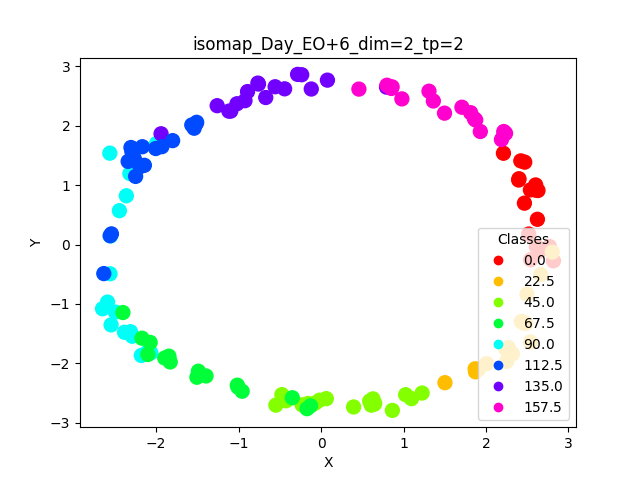
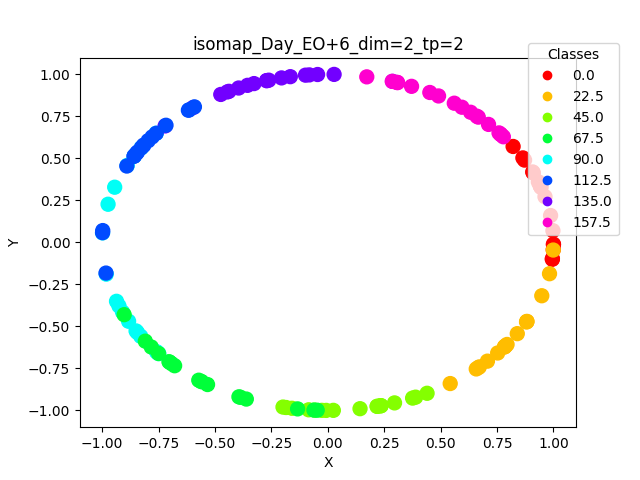
...

diff --git a/group_project/src/task1.py b/group_project/src/task1.py
@@ -1,6 +1,6 @@
 import os
 from dataclasses import dataclass
-from typing import Optional, Dict, Callable
+from typing import Optional, Dict, Callable, Any
 from sklearn.manifold import TSNE, Isomap, SpectralEmbedding, MDS
 import numpy as np
 import matplotlib.pyplot as plt
@@ -10,6 +10,7 @@ from sklearn.manifold import LocallyLinearEmbedding as LLE
 from sklearn.impute import SimpleImputer
 from sklearn import preprocessing
 from cebra import CEBRA
+import matplotlib.pyplot as plt
 
 BP = os.path.realpath(os.path.join(os.path.realpath(__file__), "../.."))
 
@@ -66,13 +67,15 @@ class Dataset:
             print(20 * "=")
 
     def dim_reduction(self,
-                      reduction_method: Callable[[np.ndarray, int], np.ndarray],
+                      reduction_method: Callable[[np.ndarray, int, Optional[Any]], np.ndarray],
                       day: str = "Day_EO+6",
                       time_point: int = 2,
                       dim: int = 2,
                       save: bool = True
                       ):
+        # zB (8, 18, 8, 135, 160)
         orig_shape = self.data[day].binocular.shape
+        # print(orig_shape)
         d1 = self.data[day].binocular
         # preprocess
         d1 = np.reshape(d1, d1.shape[:3] + tuple([d1.shape[-1] * d1.shape[-2]]))
@@ -81,14 +84,15 @@ class Dataset:
         d1 = imp_mean.fit_transform(d1)
         x = preprocessing.normalize(d1)
 
-        # Dim-Reduction:
-        reduced_data = reduction_method(x, dim)
         colors = []
-        """
-        for i in range(orig_shape[1]):
-        # for j in [0, 22.5, 45, 67.5, 90, 112.5, 135, 157.5]:
-            for j in [0, 45, 90, 135, 22.5, 67.5, 112.5, 157.5]:
-                colors.append(j)"""
+
+        """for i in range(orig_shape[1]):
+        for j in [0, 22.5, 45, 67.5, 90, 112.5, 135, 157.5]:
+            colors.extend(18*[j])
+            #for j in [0, 45, 90, 135, 22.5, 67.5, 112.5, 157.5]:
+                #colors.append(j)"""
+
+        # used
         for i in range(orig_shape[1] // 2):
 
             # for j in [0, 22.5, 45, 67.5, 90, 112.5, 135, 157.5]:
@@ -100,6 +104,13 @@ class Dataset:
             for j in [22.5, 67.5, 112.5, 157.5, 22.5, 67.5, 112.5, 157.5]:
                 colors.append(j)
 
+        colors = np.array(colors)
+        # Dim-Reduction:
+        if reduction_method.__name__ == "f_cebra":
+            reduced_data = reduction_method(x, dim, labels=colors)
+        else:
+            reduced_data = reduction_method(x, dim)
+        reduced_data = preprocessing.normalize(reduced_data)
         # plot for 2 dimensoins
         if dim == 2:
             fig = plt.scatter(x=np.transpose(reduced_data)[1],
@@ -114,7 +125,7 @@ class Dataset:
             plt.ylabel("Y")
             plt.title(f"{reduction_method.__name__.split('_')[-1]}_{day}_dim={dim}_tp={time_point}")
             plt.legend(*fig.legend_elements(),
-                       loc="lower right", title="Classes")
+                       loc="lower right", title="Classes", bbox_to_anchor=(1.1, 0.5))
             if save:
                 os.makedirs(os.path.join(BP, "data", f"{day}__tp={time_point}"), exist_ok=True)
                 plt.savefig(os.path.join(BP, "data", f"{day}__tp={time_point}",
@@ -134,7 +145,7 @@ class Dataset:
             plt.ylabel("Y")
             plt.ylabel("Z")
             plt.title(f"{reduction_method.__name__.split('_')[-1]}_{day}_dim={dim}_tp={time_point}")
-            ax.legend()
+            plt.legend()
             if save:
                 os.makedirs(os.path.join(BP, "data", f"{day}__tp={time_point}"), exist_ok=True)
                 plt.savefig(os.path.join(BP, "data", f"{day}__tp={time_point}",
@@ -142,58 +153,58 @@ class Dataset:
             plt.show()
 
     @staticmethod
-    def f_pca(x: np.ndarray, dim: int) -> np.ndarray:
+    def f_pca(x: np.ndarray, dim: int, **kwargs) -> np.ndarray:
         pca = PCA(n_components=dim)
         return pca.fit_transform(x)
 
     @staticmethod
-    def f_tsne(x: np.ndarray, dim: int) -> np.ndarray:
+    def f_tsne(x: np.ndarray, dim: int, **kwargs) -> np.ndarray:
         tsne = TSNE(n_components=dim)
         return tsne.fit_transform(x)
 
     @staticmethod
-    def f_lle(x: np.ndarray, dim: int) -> np.ndarray:
+    def f_lle(x: np.ndarray, dim: int, **kwargs) -> np.ndarray:
         lle = LLE(n_components=dim, n_neighbors=int(dim * (dim + 3) / 2) + 1)
         return lle.fit_transform(x)
 
     @staticmethod
-    def f_mod_lle(x: np.ndarray, dim: int) -> np.ndarray:
+    def f_mod_lle(x: np.ndarray, dim: int, **kwargs) -> np.ndarray:
         lle = LLE(n_components=dim, method="modified", n_neighbors=int(dim * (dim + 3) / 2) + 1)
         return lle.fit_transform(x)
 
     @staticmethod
-    def f_hessian_lle(x: np.ndarray, dim: int) -> np.ndarray:
+    def f_hessian_lle(x: np.ndarray, dim: int, **kwargs) -> np.ndarray:
         lle = LLE(n_components=dim, method="hessian", n_neighbors=int(dim * (dim + 3) / 2) + 1)
         return lle.fit_transform(x)
 
     @staticmethod
-    def f_tangent_lle(x: np.ndarray, dim: int) -> np.ndarray:
+    def f_tangent_lle(x: np.ndarray, dim: int, **kwargs) -> np.ndarray:
         lle = LLE(n_components=dim, method="ltsa", n_neighbors=int(dim * (dim + 3) / 2) + 1)
         return lle.fit_transform(x)
 
     @staticmethod
-    def f_isomap(x: np.ndarray, dim: int) -> np.ndarray:
+    def f_isomap(x: np.ndarray, dim: int, **kwargs) -> np.ndarray:
         iso = Isomap(n_components=dim)
         return iso.fit_transform(x)
 
     @staticmethod
-    def f_spectral(x: np.ndarray, dim: int) -> np.ndarray:
+    def f_spectral(x: np.ndarray, dim: int, **kwargs) -> np.ndarray:
         spec = SpectralEmbedding(n_components=dim)
         return spec.fit_transform(x)
 
     @staticmethod
-    def f_mds(x: np.ndarray, dim: int) -> np.ndarray:
+    def f_mds(x: np.ndarray, dim: int, **kwargs) -> np.ndarray:
         mds = MDS(n_components=dim)
         return mds.fit_transform(x)
 
     @staticmethod
-    def f_umap(x: np.ndarray, dim: int) -> np.ndarray:
+    def f_umap(x: np.ndarray, dim: int, **kwargs) -> np.ndarray:
         from umap import UMAP
         umap_2d = UMAP(n_components=dim, init='random', random_state=0)
         return umap_2d.fit_transform(x)
 
     @staticmethod
-    def f_cebra(x: np.ndarray, dim: int) -> np.ndarray:
+    def f_cebra(x: np.ndarray, dim: int, **kwargs) -> np.ndarray:
         cebra_model = CEBRA(
             model_architecture="offset10-model",
             batch_size=16,
@@ -205,10 +216,10 @@ class Dataset:
             device="cuda_if_available",
             verbose=True
         )
-        return cebra_model.fit_transform(x)
+        return cebra_model.fit_transform(x, kwargs["labels"])
 
     @staticmethod
-    def f_rastermap(x: np.ndarray, dim: int) -> np.ndarray:
+    def f_rastermap(x: np.ndarray, dim: int, **kwargs) -> np.ndarray:
         from rastermap import Rastermap, utils
         model = Rastermap(n_PCs=dim, n_clusters=100,
                           locality=0.75, time_lag_window=5).fit(x)
@@ -217,6 +228,23 @@ class Dataset:
     def plot_frame(self, frame: np.ndarray):
         sns.heatmap(frame, vmax=.3, square=True, cmap="YlGnBu")
         plt.show()
+
+    @staticmethod
+    def animate_plots(day: str,
+                      function_name: str = "pca",
+                      dim: int = 2,
+                      interval=6000):
+        from matplotlib.animation import FuncAnimation
+        nframes = 8
+        plt.subplots_adjust(top=1, bottom=0, left=0, right=1)
+
+        def animate(i):
+            im = plt.imread(os.path.join(BP, "data", f"{day}__tp={i}", f"{function_name}_dim={dim}.png"))
+            plt.imshow(im)
+
+        anim = FuncAnimation(plt.gcf(), animate, frames=nframes,
+                             interval=(interval / nframes))
+        anim.save(filename=os.path.join(BP, "data/gifs", f"{day}_{function_name}_dim={dim}.gif"), writer='imagemagick')
 
     def run_all(self,
                 day: str = "Day_EO+6",
@@ -231,10 +259,14 @@ class Dataset:
             method = getattr(self, method)
             self.dim_reduction(method, day, time_point, 3, save)
 
+    def run_all_whole_day(self, day: str):
+        for t in range(8):
+            ds.run_all(day=day, time_point=t)
+        for method in [i for i in dir(self) if i[:2] == "f_" and callable(getattr(self, i))]:
+            method = method.split("_")[-1]
+            self.animate_plots(day=day, dim=2, function_name=method)
+            self.animate_plots(day=day, dim=3, function_name=method)
 
-"""roi 0 np.isfinit(frame)
-frame = np.empty_like(roi)
-frame[roi] 0"""
 
 if __name__ == "__main__":
     ds = Dataset()
@@ -251,5 +283,13 @@ if __name__ == "__main__":
     ds.task_1(Dataset.f_cebra, time_point=2)
     ds.task_1(Dataset.f_rastermap, time_point=2)
     """
-    # ds.dim_reduction(Dataset.f_pca, time_point=1, dim=3)
-    ds.run_all(day="Day_EO+4")
+    # ds.dim_reduction(Dataset.f_cebra, time_point=1, dim=3)
+    ds.dim_reduction(Dataset.f_pca, time_point=2, dim=3)
+    # ds.dim_reduction(Dataset.f_cebra, time_point=2, dim=2)
+    # ds.dim_reduction(Dataset.f_cebra, time_point=2, dim=3)
+    """for t in range(8):
+        ds.run_all(day="Day_EO+6", time_point=t)
+    f = "isomap"
+    ds.animate_plots(day="Day_EO+6", dim=2, function_name=f)
+    ds.animate_plots(day="Day_EO+6", dim=3, function_name=f)"""
+
